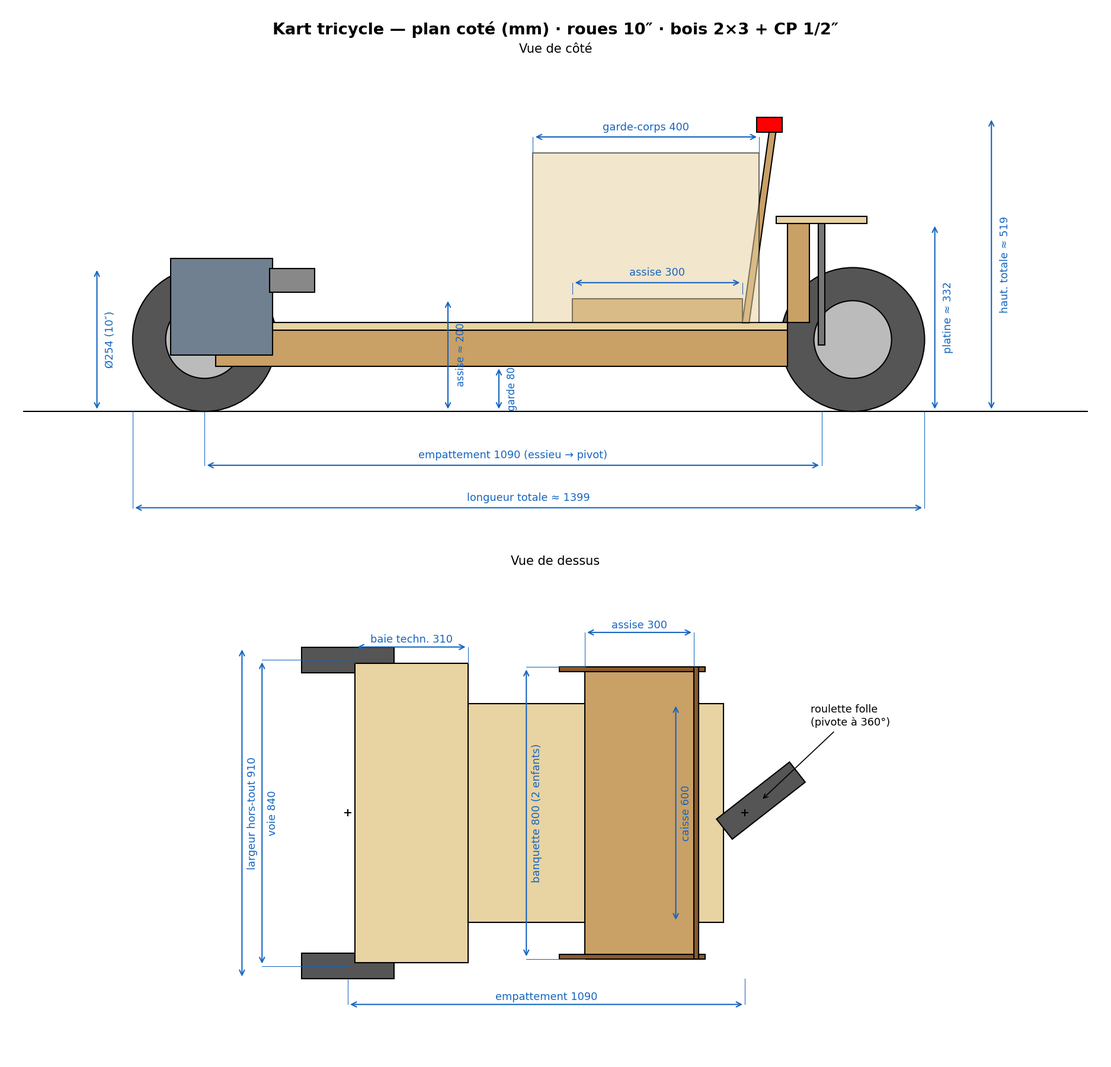
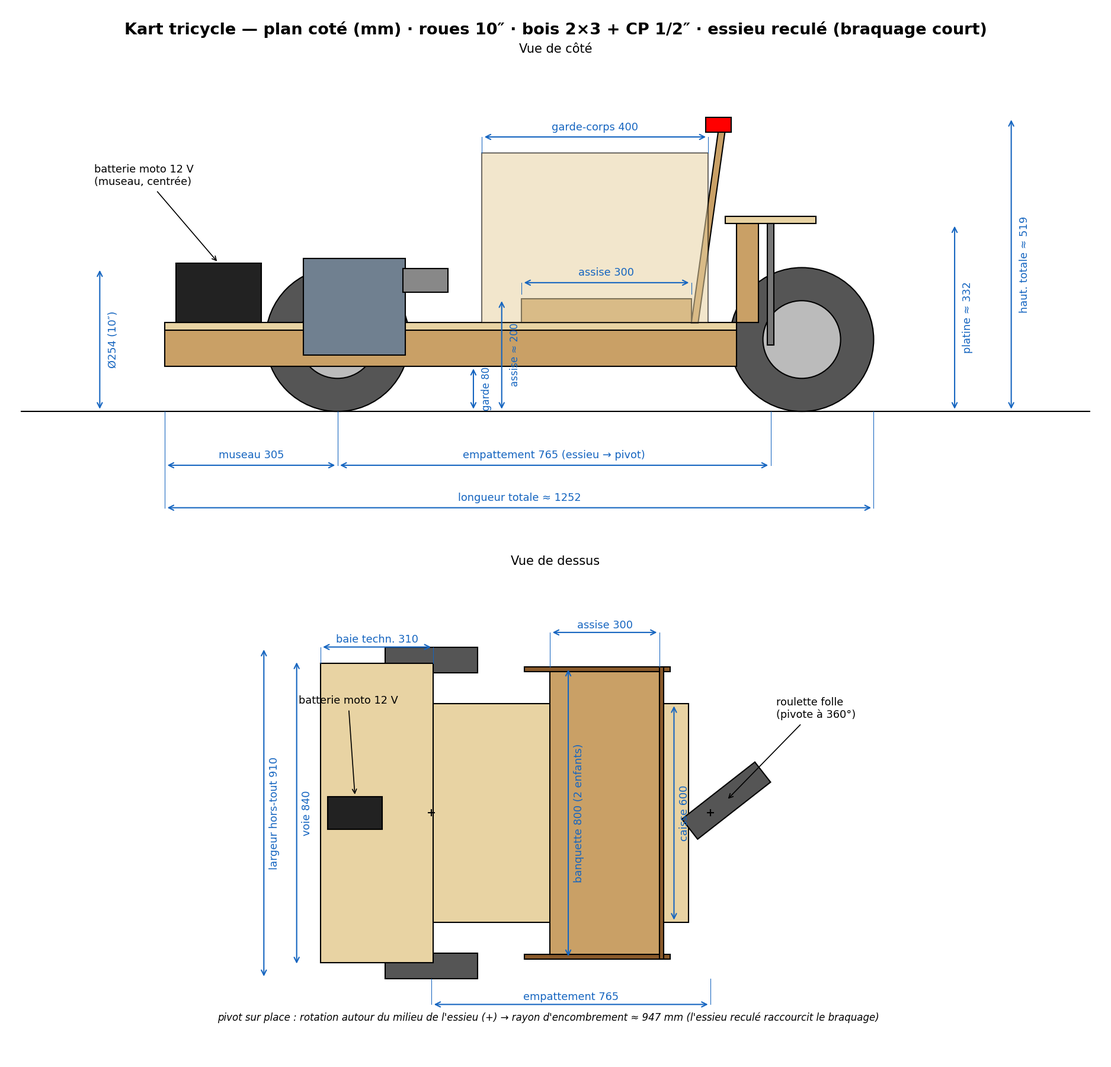
Essieu avant reculé (braquage court) + batterie moto 12 V dans le museau
L'essieu moteur recule de ~32 cm dans la caisse (museau ~30 cm devant) :
- le pivot-sur-place tourne autour du milieu de l'essieu → rayon
  d'encombrement ~0,95 m au lieu de ~1,27 m (braquage plus court) ;
- la batterie moto 12 V, à l'avant au centre du museau, charge les roues
  motrices (traction + freinage) — ~50 % du poids sur l'essieu moteur au
  lieu de ~35 % ;
- empattement essieu→pivot : 765 mm ; longueur totale ≈ 1252 mm.

Concept OpenSCAD : caisse décalée de -SHIFT, supports d'essieu extraits en
axle_group() (restent à l'essieu), passages de roues dans le plancher de
baie, module battery(). Plan coté et README (gabarit, §1, §2, mermaid,
énergie) alignés ; roulette 5" obsolète → roue 10" sur fourche pivotante ;
note hw::TRACK_M obsolète remplacée (rampe empirique turn_full_ms/turn_hi).

diff --git a/doc/schematics/kart_dimensions.py b/doc/schematics/kart_dimensions.py
@@ -1,6 +1,9 @@
 # kart_dimensions.py — Plan coté du kart (vue de côté + vue de dessus), mm.
 # Cotes = doc/cad/kart_concept.scad (concept). Régénérer :
 #   . .venv-schem/bin/activate && python doc/schematics/kart_dimensions.py
+# Repère : x=0 = essieu avant. L'essieu est RECULÉ de 325 mm dans la caisse (museau devant) :
+# le centre de pivot-sur-place se rapproche du milieu du véhicule → rayon d'encombrement réduit,
+# et la batterie 12 V dans le museau charge les roues motrices (traction/freinage).
 import matplotlib
 matplotlib.use('Agg')
 import matplotlib.pyplot as plt
@@ -9,8 +12,11 @@ import math
 
 # ── Cotes (mm) — identiques au concept OpenSCAD ──
 WHEEL_D, WHEEL_W = 254, 70
-TRACK, PIVOT_X   = 840, 1090          # voie av. ; axe de pivot roulette (empattement)
-TRAIL            = 55                  # chasse de la roulette
+TRACK   = 840
+SHIFT   = 325                          # recul de l'essieu dans la caisse
+BODY0   = 20 - SHIFT                   # avant du châssis (museau) : −305
+PIVOT_X = 1090 - SHIFT                 # axe de pivot roulette : 765 (empattement)
+TRAIL   = 55                           # chasse de la roulette
 CLEAR, LU_H, PLY = 80, 64, 12.7
 FLOOR_Z = CLEAR + LU_H                 # 144 — dessus longerons
 FLOOR_TOP = FLOOR_Z + PLY              # ~157
@@ -19,10 +25,15 @@ BACK_TOP = FLOOR_TOP + 340 * math.sin(math.radians(82))  # ~494
 GUARD_TOP = FLOOR_TOP + 300            # ~457
 CASTER_PLATE = FLOOR_TOP + 175         # ~332 (sous-face plateforme)
 AXLE_Z = WHEEL_D / 2
-CASTER_WHEEL_X = PIVOT_X + TRAIL       # 1145 (fourche alignée)
-TOTAL_L = (CASTER_WHEEL_X + WHEEL_D / 2) - (-WHEEL_D / 2)   # ≈ 1399
+CASTER_WHEEL_X = PIVOT_X + TRAIL       # 820 (fourche alignée)
+TOTAL_L = (CASTER_WHEEL_X + WHEEL_D / 2) - BODY0            # ≈ 1252
+SEAT_X0, SEAT_X1 = 650 - SHIFT, 950 - SHIFT                 # assise : 325..625
+GUARD_X0 = 580 - SHIFT                                      # garde-corps : 255..655
+BACK_X = 950 - SHIFT                                        # pied du dossier : 625
+BAT_X0, BAT_L, BAT_W, BAT_H = 40 - SHIFT, 150, 88, 105      # batterie moto 12 V (museau, centrée)
 BODY_W, SEAT_W, BAY_W = 600, 800, 820
 OVERALL_W = TRACK + WHEEL_W            # 910
+SWEEP_R = CASTER_WHEEL_X + WHEEL_D / 2                      # rayon d'encombrement en pivot ≈ 947
 
 WOOD, PLYC, DARK, ACC = '#c9a066', '#e8d3a3', '#555555', '#1565c0'
 
@@ -41,42 +52,46 @@ def dim(ax, p0, p1, txt, off=0.0, vert=False, fs=8.5):
         ax.text((x0 + x1) / 2, y0 + 12, txt, fontsize=fs, color=ACC, ha='center')
 
 fig, (ax1, ax2) = plt.subplots(2, 1, figsize=(12.5, 12))
-fig.suptitle("Kart tricycle — plan coté (mm) · roues 10″ · bois 2×3 + CP 1/2″",
+fig.suptitle("Kart tricycle — plan coté (mm) · roues 10″ · bois 2×3 + CP 1/2″ · essieu reculé (braquage court)",
              fontsize=13, fontweight='bold')
 
 # ═════════════════ VUE DE CÔTÉ ═════════════════
 ax = ax1
 ax.set_title("Vue de côté", fontsize=10)
 ax.axhline(0, color='k', lw=1)                                             # sol
-ax.add_patch(Circle((0, AXLE_Z), WHEEL_D / 2, fc=DARK, ec='k'))            # roue avant
+ax.add_patch(Circle((0, AXLE_Z), WHEEL_D / 2, fc=DARK, ec='k'))            # roue avant (motrice)
 ax.add_patch(Circle((0, AXLE_Z), WHEEL_D * 0.27, fc='#bbbbbb', ec='k'))
 ax.add_patch(Circle((CASTER_WHEEL_X, AXLE_Z), WHEEL_D / 2, fc=DARK, ec='k'))  # roulette
 ax.add_patch(Circle((CASTER_WHEEL_X, AXLE_Z), WHEEL_D * 0.27, fc='#bbbbbb', ec='k'))
-ax.add_patch(Rectangle((20, CLEAR), 1010, LU_H, fc=WOOD, ec='k'))          # longeron
-ax.add_patch(Rectangle((20, FLOOR_Z), 1010, PLY, fc=PLYC, ec='k'))         # plancher
-ax.add_patch(Rectangle((650, FLOOR_TOP), 300, 30 + PLY, fc=WOOD, ec='k'))  # assise
-ax.add_patch(Polygon([(950, FLOOR_TOP), (950 + 340 * math.cos(math.radians(82)), BACK_TOP),
-                      (962 + 340 * math.cos(math.radians(82)), BACK_TOP), (962, FLOOR_TOP)],
+ax.add_patch(Rectangle((BODY0, CLEAR), 1010, LU_H, fc=WOOD, ec='k'))       # longeron
+ax.add_patch(Rectangle((BODY0, FLOOR_Z), 1010, PLY, fc=PLYC, ec='k'))      # plancher
+ax.add_patch(Rectangle((BAT_X0, FLOOR_TOP), BAT_L, BAT_H, fc='#222222', ec='k'))  # batterie 12 V
+ax.add_patch(Rectangle((SEAT_X0, FLOOR_TOP), 300, 30 + PLY, fc=WOOD, ec='k'))  # assise
+ax.add_patch(Polygon([(BACK_X, FLOOR_TOP), (BACK_X + 340 * math.cos(math.radians(82)), BACK_TOP),
+                      (BACK_X + 12 + 340 * math.cos(math.radians(82)), BACK_TOP), (BACK_X + 12, FLOOR_TOP)],
                      closed=True, fc=WOOD, ec='k'))                        # dossier
-ax.add_patch(Rectangle((580, FLOOR_TOP), 400, 300, fc=PLYC, ec='k', alpha=0.55))  # garde-corps
+ax.add_patch(Rectangle((GUARD_X0, FLOOR_TOP), 400, 300, fc=PLYC, ec='k', alpha=0.55))  # garde-corps
 ax.add_patch(Rectangle((PIVOT_X - 60, FLOOR_TOP), 38, 175, fc=WOOD, ec='k'))       # montant queue
 ax.add_patch(Rectangle((PIVOT_X - 80, CASTER_PLATE), 160, PLY, fc=PLYC, ec='k'))   # plateforme pivot
-ax.add_patch(Rectangle((PIVOT_X - 6, AXLE_Z - 10, ), 12, CASTER_PLATE - AXLE_Z + 10, fc='#777777', ec='k'))  # pivot/fourche
-ax.add_patch(Rectangle((-60, CLEAR + 20), 180, 170, fc='#708090', ec='k'))          # boîte
+ax.add_patch(Rectangle((PIVOT_X - 6, AXLE_Z - 10), 12, CASTER_PLATE - AXLE_Z + 10, fc='#777777', ec='k'))  # pivot/fourche
+ax.add_patch(Rectangle((-60, CLEAR + 20), 180, 170, fc='#708090', ec='k'))          # boîte (à l'essieu)
 ax.add_patch(Rectangle((115, CLEAR + 130), 80, 42, fc='#888888', ec='k'))           # moteur
-be_x = 950 + 340 * math.cos(math.radians(82))
+be_x = BACK_X + 340 * math.cos(math.radians(82))
 ax.add_patch(Rectangle((be_x - 22, BACK_TOP), 45, 26, fc='red', ec='k'))            # e-stop
+ax.annotate("batterie moto 12 V\n(museau, centrée)", xy=(BAT_X0 + BAT_L / 2, FLOOR_TOP + BAT_H),
+            xytext=(-430, 400), fontsize=8.5, arrowprops=dict(arrowstyle='->', lw=0.8))
 
-dim(ax, (0, 0), (PIVOT_X, 0), "empattement 1090 (essieu → pivot)", off=-95)
-dim(ax, (-WHEEL_D / 2, 0), (CASTER_WHEEL_X + WHEEL_D / 2, 0), f"longueur totale ≈ {TOTAL_L:.0f}", off=-170)
-dim(ax, (-190, 0), (-190, WHEEL_D), "Ø254 (10″)", off=0, vert=True)
-dim(ax, (520, 0), (520, CLEAR), "garde 80", off=0, vert=True, fs=8)
-dim(ax, (430, 0), (430, SEAT_TOP), "assise ≈ 200", off=0, vert=True, fs=8)
-dim(ax, (1290, 0), (1290, CASTER_PLATE), "platine ≈ 332", off=0, vert=True)
-dim(ax, (1390, 0), (1390, BACK_TOP + 26), f"haut. totale ≈ {BACK_TOP + 26:.0f}", off=0, vert=True)
-dim(ax, (580, GUARD_TOP), (980, GUARD_TOP), "garde-corps 400", off=28)
-dim(ax, (650, SEAT_TOP + 8), (950, SEAT_TOP + 8), "assise 300", off=20)
-ax.set_xlim(-320, 1560); ax.set_ylim(-230, 620)
+dim(ax, (BODY0, 0), (0, 0), "museau 305", off=-95)
+dim(ax, (0, 0), (PIVOT_X, 0), "empattement 765 (essieu → pivot)", off=-95)
+dim(ax, (BODY0, 0), (CASTER_WHEEL_X + WHEEL_D / 2, 0), f"longueur totale ≈ {TOTAL_L:.0f}", off=-170)
+dim(ax, (-420, 0), (-420, WHEEL_D), "Ø254 (10″)", off=0, vert=True)
+dim(ax, (240, 0), (240, CLEAR), "garde 80", off=0, vert=True, fs=8)
+dim(ax, (290, 0), (290, SEAT_TOP), "assise ≈ 200", off=0, vert=True, fs=8)
+dim(ax, (1090, 0), (1090, CASTER_PLATE), "platine ≈ 332", off=0, vert=True)
+dim(ax, (1190, 0), (1190, BACK_TOP + 26), f"haut. totale ≈ {BACK_TOP + 26:.0f}", off=0, vert=True)
+dim(ax, (GUARD_X0, GUARD_TOP), (GUARD_X0 + 400, GUARD_TOP), "garde-corps 400", off=28)
+dim(ax, (SEAT_X0, SEAT_TOP + 8), (SEAT_X1, SEAT_TOP + 8), "assise 300", off=20)
+ax.set_xlim(-560, 1330); ax.set_ylim(-230, 620)
 ax.set_aspect('equal'); ax.axis('off')
 
 # ═════════════════ VUE DE DESSUS ═════════════════
@@ -84,29 +99,36 @@ ax = ax2
 ax.set_title("Vue de dessus", fontsize=10)
 for sy in (-1, 1):
     ax.add_patch(Rectangle((-WHEEL_D / 2, sy * TRACK / 2 - WHEEL_W / 2), WHEEL_D, WHEEL_W, fc=DARK, ec='k'))
-ax.add_patch(Rectangle((20, -BAY_W / 2), 310, BAY_W, fc=PLYC, ec='k'))          # baie technique
-ax.add_patch(Rectangle((330, -BODY_W / 2), 700, BODY_W, fc=PLYC, ec='k'))       # habitacle
-ax.add_patch(Rectangle((650, -SEAT_W / 2), 300, SEAT_W, fc=WOOD, ec='k'))       # banquette (débordante)
+ax.add_patch(Rectangle((BODY0, -BAY_W / 2), 310, BAY_W, fc=PLYC, ec='k'))        # baie technique (museau)
+ax.add_patch(Rectangle((BODY0 + 310, -BODY_W / 2), 700, BODY_W, fc=PLYC, ec='k'))  # habitacle
+ax.add_patch(Rectangle((BAT_X0, -BAT_W / 2), BAT_L, BAT_W, fc='#222222', ec='k'))  # batterie 12 V
+ax.add_patch(Rectangle((SEAT_X0, -SEAT_W / 2), 300, SEAT_W, fc=WOOD, ec='k'))    # banquette (débordante)
 for sy in (-1, 1):
-    ax.add_patch(Rectangle((580, sy * SEAT_W / 2 - (PLY if sy > 0 else 0)), 400, PLY, fc='#8a5a2b', ec='k'))  # garde-corps
-ax.add_patch(Rectangle((950, -SEAT_W / 2), 12, SEAT_W, fc='#8a5a2b', ec='k'))   # dossier
+    ax.add_patch(Rectangle((GUARD_X0, sy * SEAT_W / 2 - (PLY if sy > 0 else 0)), 400, PLY, fc='#8a5a2b', ec='k'))  # garde-corps
+ax.add_patch(Rectangle((BACK_X, -SEAT_W / 2), 12, SEAT_W, fc='#8a5a2b', ec='k'))  # dossier
 ax.plot(0, 0, marker='+', color='k'); ax.plot(PIVOT_X, 0, marker='+', color='k')
-ax.add_patch(Circle((PIVOT_X, 0), 32, fc='#999999', ec='k'))                    # platine pivot
-th = math.radians(38)                                                           # roulette braquée (pivot visible)
+ax.add_patch(Circle((PIVOT_X, 0), 32, fc='#999999', ec='k'))                     # platine pivot
+th = math.radians(38)                                                            # roulette braquée (pivot visible)
 cwx, cwy = PIVOT_X + TRAIL * math.cos(th), TRAIL * math.sin(th)
 ax.add_patch(Rectangle((cwx - WHEEL_D / 2, cwy - WHEEL_W / 2), WHEEL_D, WHEEL_W, fc=DARK, ec='k',
              transform=matplotlib.transforms.Affine2D().rotate_around(cwx, cwy, th) + ax.transData))
-ax.annotate("roulette folle\n(pivote à 360°)", xy=(cwx, cwy), xytext=(PIVOT_X + 180, 240),
+ax.annotate("roulette folle\n(pivote à 360°)", xy=(cwx, cwy), xytext=(PIVOT_X + 180, 260),
             fontsize=8.5, arrowprops=dict(arrowstyle='->', lw=0.8))
+ax.annotate("batterie moto 12 V", xy=(BAT_X0 + BAT_L / 2, BAT_W / 2),
+            xytext=(BODY0 - 60, 300), fontsize=8.5, arrowprops=dict(arrowstyle='->', lw=0.8))
+ax.text((BODY0 + SWEEP_R) / 2, -570,
+        "pivot sur place : rotation autour du milieu de l'essieu (+) → rayon d'encombrement "
+        f"≈ {SWEEP_R:.0f} mm (l'essieu reculé raccourcit le braquage)",
+        fontsize=8, style='italic', ha='center')
 
-dim(ax, (0, -TRACK / 2), (0, TRACK / 2), "voie 840", off=-235, vert=True)
-dim(ax, (-290, -TRACK / 2 - WHEEL_W / 2), (-290, TRACK / 2 + WHEEL_W / 2), f"largeur hors-tout {OVERALL_W}", off=0, vert=True)
-dim(ax, (650, -SEAT_W / 2), (650, SEAT_W / 2), "banquette 800 (2 enfants)", off=-160, vert=True)
-dim(ax, (900, -BODY_W / 2), (900, BODY_W / 2), "caisse 600", off=0, vert=True)
-dim(ax, (20, BAY_W / 2), (330, BAY_W / 2), "baie techn. 310", off=45)
-dim(ax, (650, SEAT_W / 2), (950, SEAT_W / 2), "assise 300", off=95)
-dim(ax, (0, -TRACK / 2 - WHEEL_W / 2), (PIVOT_X, -TRACK / 2 - WHEEL_W / 2), "empattement 1090", off=-70)
-ax.set_xlim(-420, 1560); ax.set_ylim(-660, 660)
+dim(ax, (-370, -TRACK / 2), (-370, TRACK / 2), "voie 840", off=0, vert=True)
+dim(ax, (-460, -TRACK / 2 - WHEEL_W / 2), (-460, TRACK / 2 + WHEEL_W / 2), f"largeur hors-tout {OVERALL_W}", off=0, vert=True)
+dim(ax, (SEAT_X0 + 50, -SEAT_W / 2), (SEAT_X0 + 50, SEAT_W / 2), "banquette 800 (2 enfants)", off=0, vert=True)
+dim(ax, (665, -BODY_W / 2), (665, BODY_W / 2), "caisse 600", off=0, vert=True)
+dim(ax, (BODY0, BAY_W / 2), (BODY0 + 310, BAY_W / 2), "baie techn. 310", off=45)
+dim(ax, (SEAT_X0, SEAT_W / 2), (SEAT_X1, SEAT_W / 2), "assise 300", off=95)
+dim(ax, (0, -TRACK / 2 - WHEEL_W / 2), (PIVOT_X, -TRACK / 2 - WHEEL_W / 2), "empattement 765", off=-70)
+ax.set_xlim(-620, 1300); ax.set_ylim(-660, 660)
 ax.set_aspect('equal'); ax.axis('off')
 
 fig.tight_layout()

diff --git a/README.md b/README.md
@@ -33,7 +33,7 @@ flowchart TB
     subgraph AV["◄ AVANT ► — 2 roues MOTRICES + BAIE TECHNIQUE"]
         direction LR
         AVG["🛞 roue AV G<br/>moteur + réducteur + courroie"]
-        BAY["🔋 BAIE TECHNIQUE<br/>2× batteries 20 V<br/>🧠 ESP32 + driver 2 canaux"]
+        BAY["🔋 BAIE TECHNIQUE (museau)<br/>batterie moto 12 V<br/>🧠 ESP32 + driver 2 canaux"]
         AVD["🛞 roue AV D<br/>moteur + réducteur + courroie"]
         AVG ~~~ BAY ~~~ AVD
     end
@@ -67,15 +67,17 @@ flowchart TB
 ![Concept 3D du kart](doc/cad/kart_concept.png)
 
 > Concept visuel régénérable : [`doc/cad/kart_concept.scad`](doc/cad/kart_concept.scad) (OpenSCAD —
-> 2 roues 10″ motorisées à l'avant, roulette 10″ folle sur queue surélevée, banquette 2 enfants,
-> garde-corps latéraux, arrêt d'urgence au sommet du dossier, châssis 2×3 + contreplaqué 1/2″).
+> 2 roues 10″ motorisées à l'avant **avec essieu reculé dans la caisse** (museau ~30 cm devant
+> l'essieu → braquage court), **batterie moto 12 V à l'avant au centre**, roulette 10″ folle sur
+> queue surélevée, banquette 2 enfants, garde-corps latéraux, arrêt d'urgence au sommet du
+> dossier, châssis 2×3 + contreplaqué 1/2″).
 
 ![Plan coté du kart](doc/schematics/kart_dimensions.png)
 
 > Plan coté (mm) régénérable : `python doc/schematics/kart_dimensions.py` — vues de côté et de
 > dessus aux cotes du concept.
 
-**Gabarit :** longueur ~150–180 cm · largeur ~96 cm · **voie avant ~84 cm** · **2 roues motrices avant Ø25,4 cm (10″) + baie technique à l'avant** + **1 roulette arrière libre** · **garde-corps latéraux** + **arrêt d'urgence au sommet du dossier (centré)** · assise basse 16 cm (anti-basculement).
+**Gabarit :** longueur ~125 cm · largeur ~91 cm · **voie avant ~84 cm** · **empattement ~76 cm** (essieu **reculé** dans la caisse, museau ~30 cm) · **2 roues motrices avant Ø25,4 cm (10″) + baie technique dans le museau** + **1 roulette arrière libre 10″** · **garde-corps latéraux** + **arrêt d'urgence au sommet du dossier (centré)** · assise basse (anti-basculement).
 
 > ⚠ Réservé au **terrain plat, sous surveillance adulte**. Vitesse estimée ~8–11,5 km/h (~3,2 m/s), autonomie ~10–20 min. **Un tricycle bascule plus facilement qu'un 4 roues** → anti-renversement logiciel (voir §3).
 
@@ -90,7 +92,7 @@ flowchart TB
 | **Roues** | **2 × motrices avant Ø25,4 cm (10″)** (jante plastique, roulement 1/2") + **1 roulette arrière pivotante libre** |
 | **Pilotage** | **Manette Bluetooth** (stick : Y = avance/recul, X = virage) ; **calibration obligatoire** ; joystick analogique réservé (futur) |
 | **Électronique** | **ESP32** → **driver double canal 20 A / 6–30 V** (PWM + DIR / canal), **PWM bridé ~50 %** ; **baie technique à l'AVANT** (près des 2 moteurs, câblage de puissance court) |
-| **Énergie** | **2 × packs 20 V / 5 Ah en parallèle** (diode-OR) + 2 adaptateurs vers bornes de puissance ; **logés à l'AVANT** dans la baie technique |
+| **Énergie** | **Batterie moto 12 V** (option probable), **à l'avant au centre du museau** — son poids charge l'essieu moteur ; alternative : **2 × packs 20 V / 5 Ah en parallèle** (diode-OR) + 2 adaptateurs |
 | **Vitesse** | Mesurée par **2 capteurs d'angle AS5600** (un par roue, 1 par bus I²C) ; asservissement à **500 Hz** |
 | **Commandes** | Pilotage à la **manette Bluetooth** ; bouton **armement** (physique ou START de la manette, ~1 s) ; **arrêt d'urgence matériel** au **sommet du dossier, centré** (coupe tout, accessible aux 2 enfants et à un adulte derrière) **+** arrêt d'urgence logiciel = bouton **B** de la manette ; **frein électrique par défaut** |
 | **Châssis** | **Bois** allégé : madriers **2×3** + plancher **contreplaqué 6 mm** |
@@ -101,9 +103,9 @@ flowchart TB
 - **Direction différentielle = mécanique nulle** : plus de volant, colonne, pivots, fusées, bielle ni barre d'attaque → moins de pièces à fabriquer, à régler et à user ; on **tourne en logiciel** (différence de PWM entre les 2 roues). **Pivot sur place** quand l'avance ≈ 0.
 - **Roulette arrière libre** : une seule roulette pivotante non motorisée s'oriente d'elle-même → géométrie simple, pas d'essieu arrière.
 - **Stabilité maîtrisée** : un tricycle bascule plus vite qu'un 4 roues → assise basse (16 cm), **voie avant large** + **anti-renversement firmware** (bornage de l'amplitude de virage selon la vitesse **et** limiteur de pente sur le virage).
-- **Moteurs 12 V sur batterie 20 V** : le **PWM est plafonné à ~50 %** (≈ 10 V moyens) pour éviter la surchauffe des moteurs.
+- **Moteurs 12 V sur batterie 20 V** : le **PWM est plafonné à ~50 %** (≈ 10 V moyens) pour éviter la surchauffe des moteurs. Avec la **batterie moto 12 V** envisagée, ce bridage devient inutile (tension nominale).
 - **Roues avant à roulement libre** : entraînées par **courroie** (poulie vissée sur la jante), elles gardent leur roulement d'origine — pas d'essieu moteur traversant.
-- **Baie technique à l'avant** : batteries + driver + ESP32 sont regroupés **à l'avant, près des 2 moteurs** → **câblage de puissance court** (moins de pertes, moins de fils ~10 AWG à tirer), masse motrice et énergie concentrées sur l'essieu moteur. Disposition longitudinale : **AVANT (2 roues motrices + baie technique) → HABITACLE → ARRIÈRE (roulette libre)**.
+- **Baie technique à l'avant** : batteries + driver + ESP32 sont regroupés **à l'avant, près des 2 moteurs** → **câblage de puissance court** (moins de pertes, moins de fils ~10 AWG à tirer), masse motrice et énergie concentrées sur l'essieu moteur. Disposition longitudinale : **MUSEAU (baie technique + batterie) → ESSIEU MOTEUR → HABITACLE → ARRIÈRE (roulette libre)**. **L'essieu est reculé de ~32 cm dans la caisse** : en pivot sur place (rotation autour du milieu de l'essieu) l'encombrement balayé passe de ~1,27 m à **~0,95 m de rayon** (braquage court), et le poids de la **batterie au centre du museau** charge les roues motrices (traction + freinage).
 - **Sécurité** : **arrêt d'urgence matériel central**, au **sommet du dossier** (à portée des deux enfants et d'un adulte derrière), **coupe-courant général** (en série dans la gate du latch, ESP32 compris) **et** arrêt d'urgence logiciel manette (bouton B) ; démarrage par **bouton momentané** + latch low-side (2× MOSFET, l'ESP se maintient en vie), fusible par pack, **frein électrique par défaut** (déconnexion manette → freinage immédiat), coupure basse tension (LVC), **watchdog 5 s**, démarrage **désarmé** par défaut, carters sur courroies/poulies, ceinture, casque.
 
 ---
@@ -112,18 +114,18 @@ flowchart TB
 
 | Cote | Valeur | Pourquoi |
 |---|---|---|
-| Longueur totale | **150 cm** (prévoir **jusqu'à ~180 cm**) | **Baie technique à l'avant** (batteries, driver, électronique, ~30 cm près des 2 moteurs) + habitacle + dossier + porte-à-faux jusqu'à la roulette arrière |
+| Longueur totale | **~125 cm** (plan coté ; prévoir marge) | **Museau** (baie technique ~30 cm **devant l'essieu**) + habitacle + dossier + porte-à-faux jusqu'à la roulette arrière |
 | Largeur hors-tout | **96 cm** | Doit loger **deux enfants côte à côte** |
 | **Largeur intérieure banquette** | **~80 cm** | 2 × ~40 cm/enfant (épaules + coudes) |
 | **Garde-corps latéraux** (CP 1/2″, de chaque côté de la banquette) | hauteur **~30 cm** au-dessus du plancher, longueur ~40 cm | Empêchent l'enfant de **tomber sur le côté** ; arêtes arrondies |
-| **Baie technique** (avant) | longueur ~**30 cm** (0–30 cm depuis l'essieu avant) | Loge **2 packs 20 V, driver, ESP32, breakout** près des 2 moteurs (câblage court) |
+| **Baie technique** (museau, **devant l'essieu**) | longueur ~**30 cm** | Loge la **batterie (moto 12 V probable, centrée)** + driver, ESP32, breakout près des 2 moteurs (câblage court) ; le poids devant l'essieu **charge les roues motrices** |
 | **Voie avant** (écartement roues motrices, axe à axe) | **84 cm** | Voie large = **anti-basculement** ET **bras de levier du différentiel** (plus la voie est large, plus le virage est franc à différentiel donné) |
-| **Empattement** (essieu AV ↔ roulette AR) | **~110 cm** | Assez long pour la stabilité (les 2 enfants restent entre l'essieu moteur et la roulette) ; la roulette ne fait que suivre, le pivot se fait sur l'essieu avant |
+| **Empattement** (essieu AV ↔ pivot roulette) | **~76 cm** (essieu **reculé** de ~32 cm dans la caisse) | **Braquage court** : le pivot-sur-place tourne autour du milieu de l'essieu → essieu proche du centre du véhicule = **rayon d'encombrement ~0,95 m** ; et davantage de poids sur les roues motrices (traction/freinage) |
 | Hauteur d'assise (sol → fond du siège) | **16 cm** | Centre de gravité **bas** = limite le renversement |
 | Garde au sol (sous châssis) | **8 cm** | Passe les petits obstacles sans talonner |
 | Hauteur de dossier (assise → haut) | **34 cm** | Soutient le dos des deux enfants |
 | **Roues motrices avant (×2 identiques)** | **Ø25,4 cm (10″)**, jante plastique + pneu PVC dur | Mêmes roues à gauche/droite → plan simplifié |
-| **Roulette arrière (×1)** | **Roulette pivotante (caster) Ø ~12,5 cm (5")**, hauteur montée ~15 cm, charge ≥ 50 kg | Non motorisée, s'oriente librement ; hauteur de montage choisie pour garder le châssis **de niveau** avec l'essieu avant (centre à 15 cm) |
+| **Roulette arrière (×1)** | **Roue 10″ (Ø25,4 cm) sur fourche pivotante**, sous une **queue surélevée** (platine à ~33 cm), charge ≥ 50 kg | Non motorisée, s'oriente librement (360°) ; **même roue que l'avant** (pièces communes) ; la queue surélevée garde le châssis **de niveau** |
 | Moyeu / fixation roues avant | **Roulement métal, alésage 1/2"**, moyeu large ~3,8 cm | Tourne **libre** sur un **essieu mort traversant : tige filetée 1/2″ × 36″** (grade **8.8/B7**, pas de la quincaillerie), **locknuts + rondelles à chaque bout**, entretoises pour figer la position latérale (alignement courroie), supports châssis au plus près des moyeux (≤ 3–5 cm, flexion) |
 
 **Idée directrice :** assise basse + **voie avant large (84 cm)** = un engin **qui reste stable** malgré le format tricycle et deux enfants côte à côte. L'anti-renversement firmware complète la géométrie.
@@ -132,24 +134,24 @@ flowchart TB
 > châssis en **T** : **traverse avant large** portant les **paliers d'essieu au plus près des
 > roues** (≤ 3–5 cm, sinon la tige filetée fléchit), longerons étroits derrière. L'espace le
 > long de l'essieu entre longeron et roue loge le **moteur + réducteur + courroie** de chaque
-> côté. ⚠ Si la voie change, mettre à jour `hw::TRACK_M` dans le firmware (anti-renversement).
+> côté. ⚠ L'anti-renversement firmware est une rampe **empirique** (`turn_full_ms`, `turn_hi`) : à re-régler au banc si la géométrie change.
 
 ---
 
 ## 2. Position siège / commandes
 
-Repère 0 = essieu **avant** (roues motrices) ; cotes mesurées **vers l'arrière**. La **baie technique** (batteries + électronique) occupe l'avant, **entre l'essieu moteur et la banquette**.
+Repère 0 = essieu **avant** (roues motrices) ; cotes mesurées **vers l'arrière** (négatives = museau). La **baie technique** (batterie + électronique) occupe le **museau, devant l'essieu**.
 
 | Élément | Distance depuis essieu AV | Hauteur / sol |
 |---|---|---|
-| Essieu avant (roues motrices, repère) | **0 cm** | centre à 15 cm (roue Ø30) |
-| **Baie technique** (batteries + électronique) | **~0–30 cm** | dans le châssis, bas |
-| **Cale-pieds** | **~35 cm** | repose-pieds au-dessus/derrière la baie |
-| Avant de l'assise | **~65 cm** | 16 cm |
-| **Fond du dossier** | **~95 cm** | assise à 16 cm |
-| Roulette arrière (libre) | **~110 cm** | centre selon Ø ~12,5 cm |
+| **Baie technique** (batterie + électronique) | **~−30–0 cm (museau)** | sur le plancher, bas |
+| Essieu avant (roues motrices, repère) | **0 cm** | centre à 12,7 cm (roue Ø25,4) |
+| **Cale-pieds** | **~5 cm** | repose-pieds juste derrière l'essieu |
+| Avant de l'assise | **~32 cm** | ~20 cm |
+| **Fond du dossier** | **~62 cm** | assise à ~20 cm |
+| Pivot de la roulette arrière (libre) | **~76 cm** | roue 10″ (Ø25,4), platine à ~33 cm |
 
-➡ Avec la **manette Bluetooth**, il n'y a **plus de boîtier de pédales ni de volant** à positionner : seule compte l'ergonomie d'assise. **Dossier → cale-pieds ≈ 60 cm** (95 − 35) ✔ jambe presque tendue, léger pli du genou. Prévoir un endroit sûr pour **poser/charger la manette**. Siège **réglable** (§6) pour s'adapter à la taille de l'enfant.
+➡ Avec la **manette Bluetooth**, il n'y a **plus de boîtier de pédales ni de volant** à positionner : seule compte l'ergonomie d'assise. **Dossier → cale-pieds ≈ 57 cm** (62 − 5) ✔ jambe presque tendue, léger pli du genou. Prévoir un endroit sûr pour **poser/charger la manette**. Siège **réglable** (§6) pour s'adapter à la taille de l'enfant.
 
 ➡ **Arrêt d'urgence au sommet du dossier (centré)** : le **champignon matériel** (coupe-circuit en série dans la gate du latch) est monté **en haut du dossier, au centre** — accessible aux **deux enfants** et à un **adulte qui suit le kart**. Il **coupe tout** (puissance **et** ESP32), en complément de l'arrêt d'urgence **logiciel** de la manette (bouton **B**). **Garde-corps latéraux** de chaque côté de la banquette (pas de séparation centrale : banquette continue). Le **pilotage reste à la manette Bluetooth**.
 
@@ -157,13 +159,13 @@ Repère 0 = essieu **avant** (roues motrices) ; cotes mesurées **vers l'arrièr
 
 ```mermaid
 flowchart LR
-    AV["🛞 Essieu AV motrice<br/>Ø25 cm — 0 cm"]
-    BAY["🔋 Baie technique<br/>~0–30 cm"]
-    ASS["Avant assise<br/>~65 cm"]
-    DOS["Dossier<br/>~95 cm"]
-    AR["🛞 Roulette AR libre<br/>~110 cm (Ø12,5)"]
+    BAY["🔋 Museau : baie technique<br/>batterie moto 12 V — ~−30–0 cm"]
+    AV["🛞 Essieu AV motrice<br/>Ø25,4 cm — 0 cm"]
+    ASS["Avant assise<br/>~32 cm"]
+    DOS["Dossier<br/>~62 cm"]
+    AR["🛞 Roulette AR libre<br/>pivot ~76 cm (roue 10″)"]
 
-    AV --> BAY --> ASS --> DOS --> AR
+    BAY --> AV --> ASS --> DOS --> AR
 
     classDef axe fill:#cfe2ff,stroke:#333,stroke-width:2px;
     classDef caster fill:#e2e3e5,stroke:#333,stroke-width:2px;
@@ -175,7 +177,7 @@ flowchart LR
     class BAY elec;
 ```
 
-> **Banquette unique 2 places** : les deux enfants côte à côte (~80 cm intérieure), même dossier. Le **conducteur (gauche)** tient la **manette** ; le côté droit est passager. La **baie technique** (batteries + électronique) est **à l'avant**, entre l'essieu moteur et l'assise.
+> **Banquette unique 2 places** : les deux enfants côte à côte (~80 cm intérieure), même dossier. Le **conducteur (gauche)** tient la **manette** ; le côté droit est passager. La **baie technique** (batterie + électronique) est **dans le museau, devant l'essieu moteur**.
 
 ### Vue de dessus (disposition 2 places)
 
@@ -276,7 +278,7 @@ Paramètres web : **`turn_gain`** (autorité de virage), **`turn_full_ms`** / **
 | | **2 × capteur d'angle AS5600** + aimant diamétral | un par roue avant, **1 par bus I²C** ; magnétique sans contact, **12 bits absolu I²C** (adresse fixe 0x36), **3,3 V natif** (aucun level-shift), pull-ups 4,7 kΩ |
 | **Pilotage** | **Manette Bluetooth** | stick : Y = avance/recul, X = virage ; bouton **B** = arrêt d'urgence, bouton **START** = armement ; **calibration obligatoire** |
 | | *Joystick analogique* | **réservé (futur, non câblé)** : 2 voies de l'ADS1115 (A1/A2) prévues derrière la même abstraction logicielle |
-| **Énergie / électronique** | Batteries (**2 requises**) | **2 × packs 20 V / 5 Ah** à glissière, **en parallèle** (~40 A total) ; **logées à l'AVANT** (baie technique, près des moteurs) |
+| **Énergie / électronique** | Batterie | **Batterie moto 12 V** (option probable, ~40 A de pointe OK, moteurs à tension nominale → plus de bridage PWM) **au centre du museau** ; alternative : **2 × packs 20 V / 5 Ah** à glissière en parallèle (~40 A total) |
 | | **Adaptateurs de batterie** (×2) | Support à glissière → bornes de puissance (+ / −) |
 | | **Diodes idéales (diode-OR)** — requis | **2 × modules 40 A / 60 A** (un par pack) + 1 fusible/pack |
 | | **Interrupteur d'alimentation (latch)** | **2× MOSFET N IRFZ44N** low-side (+ dissipateur) + **opto** + zener/pull-down + **bouton démarrage** |
